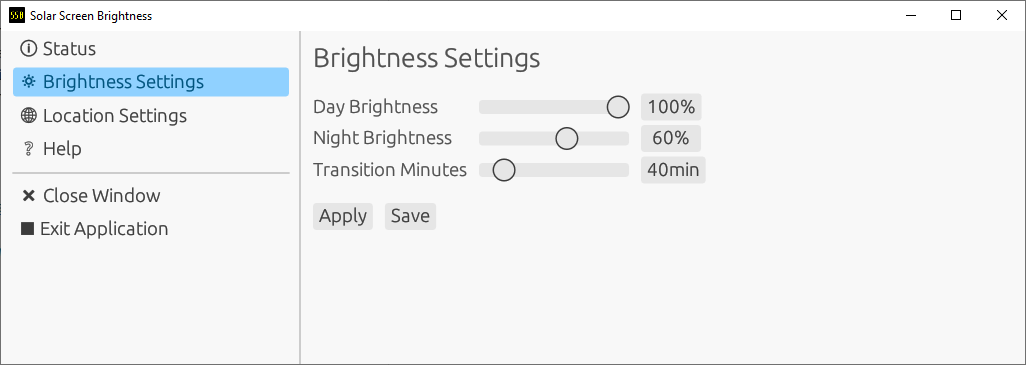
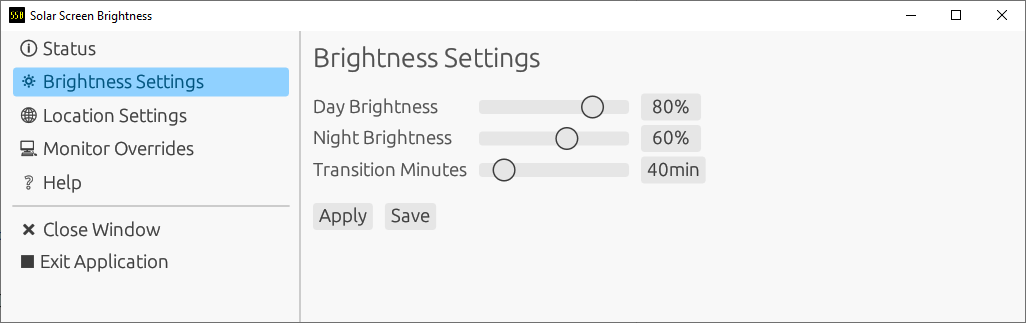
finish monitor overrides

diff --git a/src/gui/status.rs b/src/gui/status.rs
@@ -58,59 +58,63 @@ fn display_apply_results(results: &ApplyResults, ui: &mut egui::Ui) {
     ui.add_space(SPACING);
 
     if results.monitors.is_empty() {
-        ui.label(egui::RichText::new("No devices found").color(egui::Color32::RED));
-    } else {
-        egui::Grid::new("monitors_grid")
-            .striped(true)
-            .num_columns(5)
-            .show(ui, |ui| {
-                ui.label("Device Name");
-                ui.label("Day")
-                    .on_hover_text("Configured day time brightness");
-                ui.label("Night")
-                    .on_hover_text("Configured night time brightness");
-                ui.label("Now")
-                    .on_hover_text("The computed brightness percentage for this monitor");
-                ui.label("Status");
-                ui.label("Next update")
-                    .on_hover_text("Time that the brightness will be changed");
-                ui.end_row();
-
-                results.monitors.iter().for_each(|monitor| {
-                    ui.label(&monitor.properties.device_name);
-                    if let Some(brightness) = &monitor.brightness {
-                        ui.label(format!("{}%", brightness.brightness_day));
-                        ui.label(format!("{}%", brightness.brightness_night));
-                        ui.label(format!("{}%", brightness.brightness));
-
-                        match &monitor.error {
-                            None => ui
-                                .label("Ok")
-                                .on_hover_text("Brightness was applied successfully"),
-                            Some(e) => ui
-                                .label(egui::RichText::new("Error").color(egui::Color32::RED))
-                                .on_hover_text(e),
-                        };
-
-                        match brightness.expiry_time {
-                            None => ui.label("Never"),
-                            Some(expiry_time) => {
-                                let changes_at = Local.timestamp_opt(expiry_time, 0).unwrap();
-                                ui.label(changes_at.format("%H:%M %P").to_string())
-                                    .on_hover_text(changes_at.format("%b %d").to_string())
-                            }
-                        };
-                    } else {
-                        (0..3).for_each(|_| {
-                            ui.label("N/A");
-                        });
-                        ui.label("Disabled").on_hover_text(
-                            "Dynamic brightness is disabled due to a monitor override",
-                        );
-                        ui.label("Never");
-                    }
-                    ui.end_row();
-                });
-            });
+        ui.add(no_devices_found());
+        return;
     }
+
+    egui::Grid::new("monitors_grid")
+        .striped(true)
+        .num_columns(5)
+        .show(ui, |ui| {
+            ui.label("Name");
+            ui.label("Day")
+                .on_hover_text("Configured day time brightness");
+            ui.label("Night")
+                .on_hover_text("Configured night time brightness");
+            ui.label("Now")
+                .on_hover_text("The computed brightness percentage for this monitor");
+            ui.label("Status");
+            ui.label("Next update")
+                .on_hover_text("Time that the brightness will be changed");
+            ui.end_row();
+
+            results.monitors.iter().for_each(|monitor| {
+                ui.label(&monitor.properties.device_name);
+                if let Some(brightness) = &monitor.brightness {
+                    ui.label(format!("{}%", brightness.brightness_day));
+                    ui.label(format!("{}%", brightness.brightness_night));
+                    ui.label(format!("{}%", brightness.brightness));
+
+                    match &monitor.error {
+                        None => ui
+                            .label("Ok")
+                            .on_hover_text("Brightness was applied successfully"),
+                        Some(e) => ui
+                            .label(egui::RichText::new("Error").color(egui::Color32::RED))
+                            .on_hover_text(e),
+                    };
+
+                    match brightness.expiry_time {
+                        None => ui.label("Never"),
+                        Some(expiry_time) => {
+                            let changes_at = Local.timestamp_opt(expiry_time, 0).unwrap();
+                            ui.label(changes_at.format("%H:%M %P").to_string())
+                                .on_hover_text(changes_at.format("%b %d").to_string())
+                        }
+                    };
+                } else {
+                    (0..3).for_each(|_| {
+                        ui.label("N/A");
+                    });
+                    ui.label("Disabled")
+                        .on_hover_text("Dynamic brightness is disabled due to a monitor override");
+                    ui.label("Never");
+                }
+                ui.end_row();
+            });
+        });
+}
+
+pub fn no_devices_found() -> egui::Label {
+    egui::Label::new(egui::RichText::new("No devices found").color(egui::Color32::RED))
 }

diff --git a/src/gui/monitor_overrides.rs b/src/gui/monitor_overrides.rs
@@ -1,7 +1,8 @@
 use crate::apply::ApplyResults;
 use crate::config::{BrightnessValues, MonitorOverride, MonitorProperty, SsbConfig};
 use crate::controller::Message;
-use crate::gui::app::{set_red_widget_border, AppState, Page, SPACING};
+use crate::gui::app::{save_config, set_red_widget_border, AppState, Page, SPACING};
+use crate::gui::status::no_devices_found;
 use ellipse::Ellipse;
 
 const MAX_OVERRIDES: usize = 10;
@@ -75,13 +76,14 @@ impl MonitorOverridePage {
     }
 
     fn render_monitors(&mut self, ui: &mut egui::Ui, results: &ApplyResults) {
-        ui.label(egui::RichText::new("Devices").size(14.0));
+        ui.label(egui::RichText::new("Monitor Properties").size(14.0));
         ui.add_space(SPACING);
 
         if results.monitors.is_empty() {
-            ui.label(egui::RichText::new("No devices found").color(egui::Color32::RED));
+            ui.add(no_devices_found());
             return;
         }
+
         let properties = enum_iterator::all::<MonitorProperty>().collect::<Vec<_>>();
 
         egui::ScrollArea::horizontal().show(ui, |ui| {
@@ -131,12 +133,12 @@ impl MonitorOverridePage {
         if !self.overrides.is_empty() {
             egui::Grid::new("overrides_grid")
                 .striped(true)
-                .num_columns(7)
+                .num_columns(8)
                 .min_col_width(0.0)
                 .show(ui, |ui| {
                     ui.label("");
                     ui.label("");
-                    ui.label("Key");
+                    ui.label("Property");
                     ui.label("Pattern")
                         .on_hover_text("You can use * as a wildcard match");
                     ui.label("Disable")
@@ -184,8 +186,8 @@ impl MonitorOverridePage {
                         ui.add(egui::Checkbox::without_text(&mut o.disable));
 
                         if o.disable {
-                            ui.label("");
-                            ui.label("");
+                            ui.label("N/A");
+                            ui.label("N/A");
                         } else {
                             ui.add(
                                 egui::DragValue::new(&mut o.day)
@@ -236,6 +238,7 @@ impl MonitorOverridePage {
                     .controller
                     .send(Message::Refresh("Override change"))
                     .unwrap();
+                save_config(&mut config, &app_state.transitions);
             }
         });
 

diff --git a/src/gui/location_settings.rs b/src/gui/location_settings.rs
@@ -1,6 +1,8 @@
 use crate::config::{Location, SsbConfig};
 use crate::controller::Message;
-use crate::gui::app::{set_red_widget_border, AppState, MessageModal, Modal, Page, SPACING};
+use crate::gui::app::{
+    save_config, set_red_widget_border, AppState, MessageModal, Modal, Page, SPACING,
+};
 use crate::gui::UserEvent;
 use egui::{Context, Widget};
 use geocoding::{Forward, GeocodingError, Openstreetmap};
@@ -101,15 +103,7 @@ impl Page for LocationSettingsPage {
                 .controller
                 .send(Message::Refresh("Location change"))
                 .unwrap();
-            if let Err(e) = config.save() {
-                log::error!("Unable to save config: {:#}", e);
-                app_state.transitions.queue_state_transition(move |app| {
-                    app.modal = Some(Box::new(MessageModal {
-                        title: "Error".to_string(),
-                        message: format!("Unable to save config: {}", e),
-                    }));
-                });
-            }
+            save_config(&mut config, &app_state.transitions);
         }
     }
 }

diff --git a/src/gui/brightness_settings.rs b/src/gui/brightness_settings.rs
@@ -1,6 +1,6 @@
 use crate::config::SsbConfig;
 use crate::controller::Message;
-use crate::gui::app::{AppState, MessageModal, Page, SPACING};
+use crate::gui::app::{save_config, AppState, Page, SPACING};
 use validator::Validate;
 
 pub struct BrightnessSettingsPage {
@@ -62,15 +62,7 @@ impl Page for BrightnessSettingsPage {
                     .controller
                     .send(Message::Refresh("Brightness change"))
                     .unwrap();
-                if let Err(e) = config.save() {
-                    log::error!("Unable to save config: {:#}", e);
-                    app_state.transitions.queue_state_transition(move |app| {
-                        app.modal = Some(Box::new(MessageModal {
-                            title: "Error".to_string(),
-                            message: format!("Unable to save config: {}", e),
-                        }));
-                    });
-                }
+                save_config(&mut config, &app_state.transitions);
             };
         });
     }

diff --git a/src/gui/app.rs b/src/gui/app.rs
@@ -240,3 +240,15 @@ pub fn set_red_widget_border(ui: &mut egui::Ui) {
     ui.style_mut().visuals.widgets.inactive.bg_stroke.width = 1.0;
     ui.style_mut().visuals.widgets.hovered.bg_stroke.color = egui::Color32::RED;
 }
+
+pub fn save_config(config: &mut SsbConfig, transitions: &Transitions) {
+    if let Err(e) = config.save() {
+        log::error!("Unable to save config: {:#}", e);
+        transitions.queue_state_transition(move |app| {
+            app.modal = Some(Box::new(MessageModal {
+                title: "Error".to_string(),
+                message: format!("Unable to save config: {}", e),
+            }));
+        });
+    }
+}

diff --git a/src/config.rs b/src/config.rs
@@ -50,8 +50,11 @@ impl MonitorProperty {
     pub fn as_str(&self) -> &'static str {
         match self {
             MonitorProperty::DeviceName => "Name",
+            #[cfg(windows)]
             MonitorProperty::DeviceDescription => "Description",
+            #[cfg(windows)]
             MonitorProperty::DeviceKey => "Key",
+            #[cfg(windows)]
             MonitorProperty::DevicePath => "Path",
         }
     }
